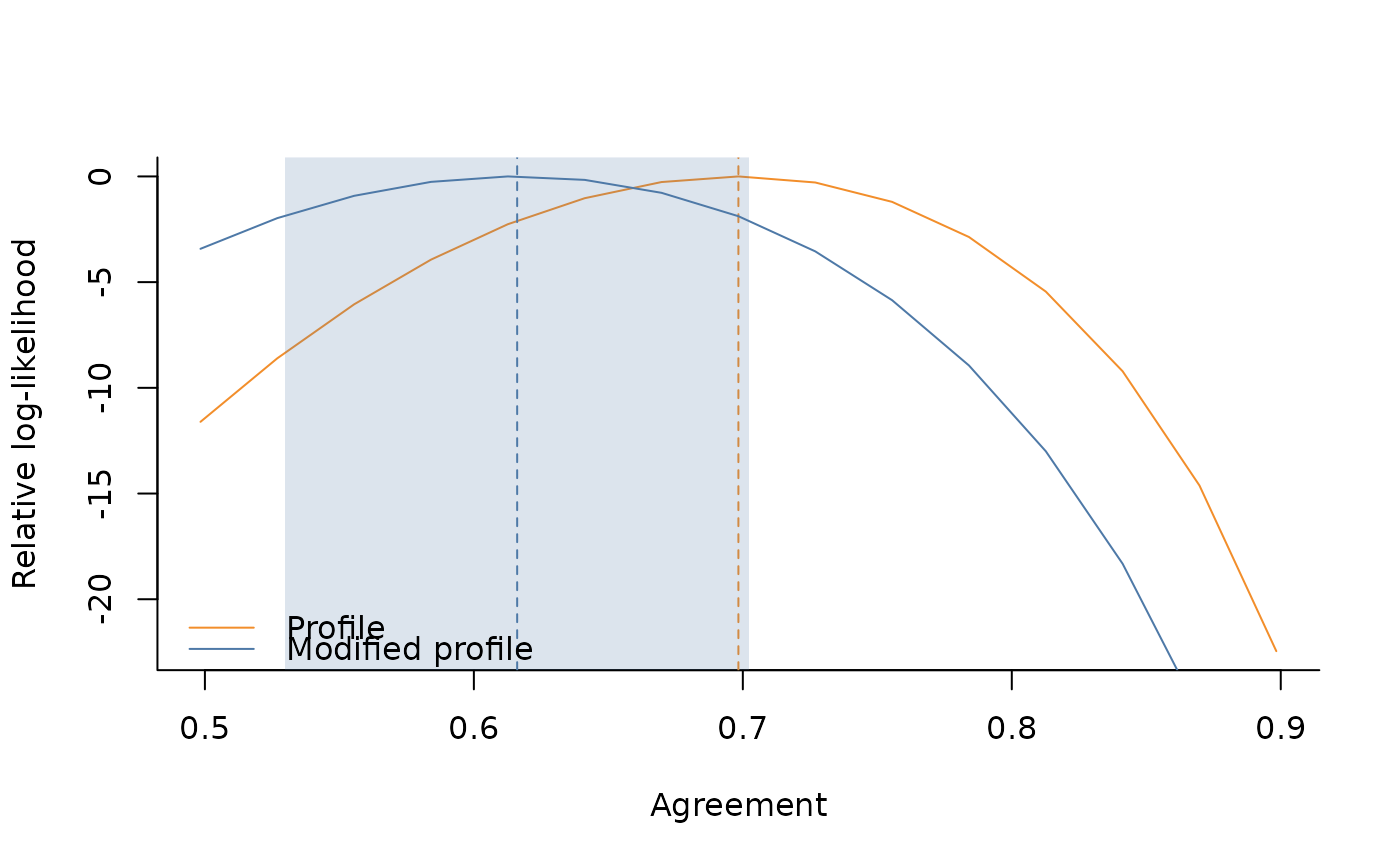
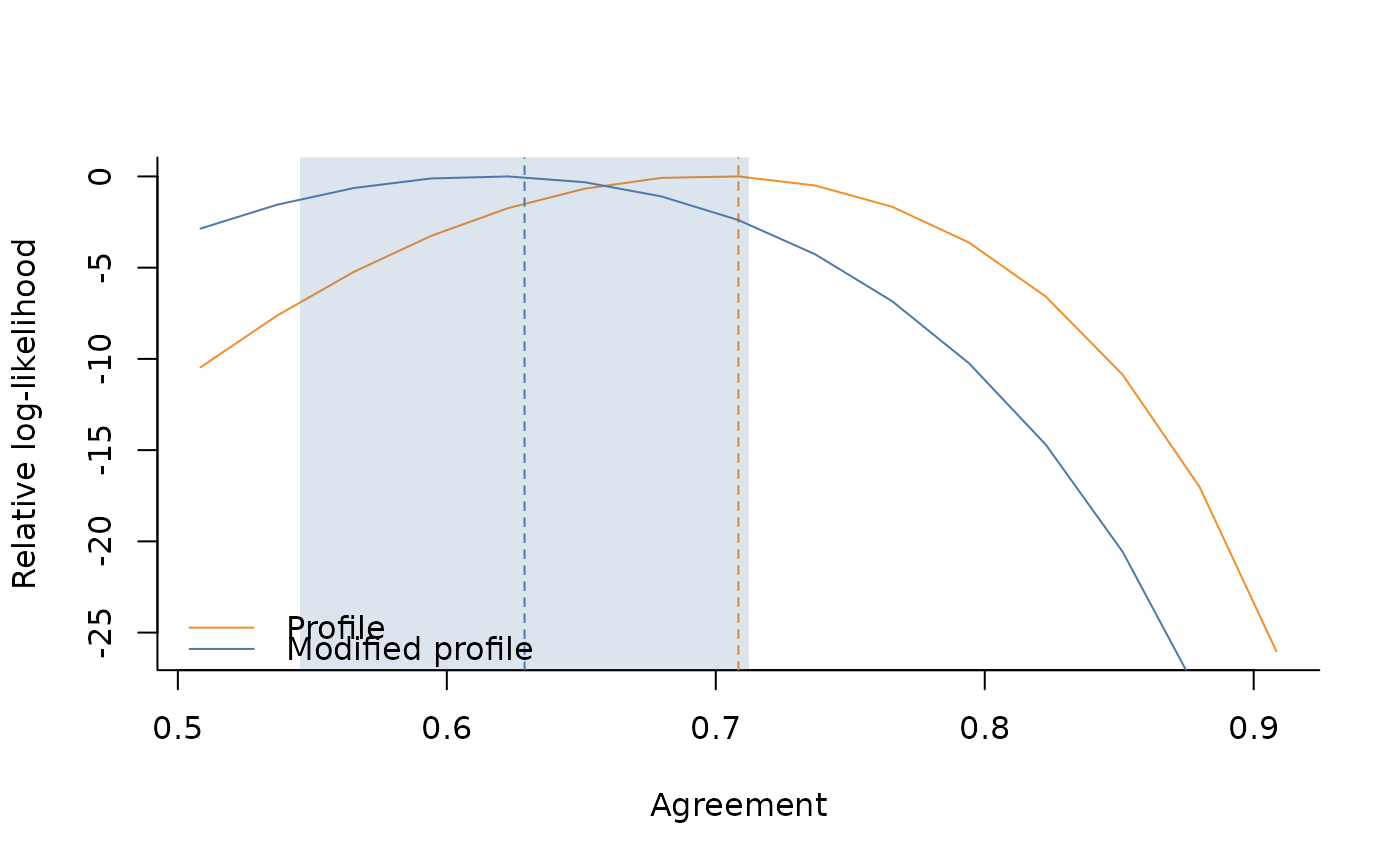
Deploying to gh-pages from @ giuseppealfonzetti/AgreementPhi@ce056dad377078d16d6ac918213725686126458d 🚀

diff --git a/reference/par2agr.html b/reference/par2agr.html
@@ -43,7 +43,15 @@
 
     <div class="section level2">
     <h2 id="ref-usage">Usage<a class="anchor" aria-label="anchor" href="#ref-usage"></a></h2>
-    <div class="sourceCode"><pre class="sourceCode r"><code><span><span class="fu">par2agr</span><span class="op">(</span><span class="va">PHI</span>, ALPHA <span class="op">=</span> <span class="cn">NULL</span>, BETA <span class="op">=</span> <span class="cn">NULL</span>, K0 <span class="op">=</span> <span class="cn">NULL</span>, K1 <span class="op">=</span> <span class="cn">NULL</span><span class="op">)</span></span></code></pre></div>
+    <div class="sourceCode"><pre class="sourceCode r"><code><span><span class="fu">par2agr</span><span class="op">(</span></span>
+<span>  <span class="va">PHI</span>,</span>
+<span>  ALPHA <span class="op">=</span> <span class="cn">NULL</span>,</span>
+<span>  BETA <span class="op">=</span> <span class="cn">NULL</span>,</span>
+<span>  K0 <span class="op">=</span> <span class="cn">NULL</span>,</span>
+<span>  K1 <span class="op">=</span> <span class="cn">NULL</span>,</span>
+<span>  ADJUST <span class="op">=</span> <span class="cn">FALSE</span>,</span>
+<span>  N_DEGENERATE <span class="op">=</span> <span class="fl">0L</span></span>
+<span><span class="op">)</span></span></code></pre></div>
     </div>
 
     <div class="section level2">
@@ -68,6 +76,17 @@
 
 <dt id="arg-k-">K1<a class="anchor" aria-label="anchor" href="#arg-k-"></a></dt>
 <dd><p>one-inflation threshold</p></dd>
+
+
+<dt id="arg-adjust">ADJUST<a class="anchor" aria-label="anchor" href="#arg-adjust"></a></dt>
+<dd><p>logical; if <code>TRUE</code>, degenerate items (dropped from estimation,
+i.e. not in <code>ALPHA</code>) are included in the overall mean with a unit
+contribution. Requires <code>ALPHA</code>.</p></dd>
+
+
+<dt id="arg-n-degenerate">N_DEGENERATE<a class="anchor" aria-label="anchor" href="#arg-n-degenerate"></a></dt>
+<dd><p>number of degenerate items dropped before estimation.
+Used only when <code>ADJUST = TRUE</code>.</p></dd>
 
 </dl></div>
     <div class="section level2">

diff --git a/reference/agreement.html b/reference/agreement.html
@@ -70,7 +70,8 @@ Fitted via the ordered beta mixture model. One-way only (no workers in <code>DAT
 <span>  PHI_START <span class="op">=</span> <span class="cn">NULL</span>,</span>
 <span>  NUISANCE <span class="op">=</span> <span class="fu"><a href="https://rdrr.io/r/base/c.html" class="external-link">c</a></span><span class="op">(</span><span class="st">"items"</span><span class="op">)</span>,</span>
 <span>  CONTROL <span class="op">=</span> <span class="fu"><a href="https://rdrr.io/r/base/list.html" class="external-link">list</a></span><span class="op">(</span><span class="op">)</span>,</span>
-<span>  VERBOSE <span class="op">=</span> <span class="cn">FALSE</span></span>
+<span>  VERBOSE <span class="op">=</span> <span class="cn">FALSE</span>,</span>
+<span>  ADJUST <span class="op">=</span> <span class="cn">TRUE</span></span>
 <span><span class="op">)</span></span></code></pre></div>
     </div>
 
@@ -150,6 +151,14 @@ Must be positive. Default: <code>100</code>.</p></dd>
 
 <dt id="arg-verbose">VERBOSE<a class="anchor" aria-label="anchor" href="#arg-verbose"></a></dt>
 <dd><p>Print optimization progress. Default <code>FALSE</code>.</p></dd>
+
+
+<dt id="arg-adjust">ADJUST<a class="anchor" aria-label="anchor" href="#arg-adjust"></a></dt>
+<dd><p>Logical; if <code>TRUE</code> (default), degenerate items dropped before
+estimation are re-included in the overall agreement by weighting each with a
+unit contribution: <code>(fit_J * raw + n_dropped) / (fit_J + n_dropped)</code>. Applied
+uniformly to all data types. Has no effect when no items are dropped (e.g.
+two-way models, where degenerate items are kept in the fit).</p></dd>
 
 </dl></div>
     <div class="section level2">

diff --git a/index.html b/index.html
@@ -90,11 +90,7 @@
 <span>  RATINGS <span class="op">=</span> <span class="va">dt</span><span class="op">$</span><span class="va">rating</span>, </span>
 <span>  ITEM_INDS <span class="op">=</span> <span class="va">dt</span><span class="op">$</span><span class="va">id_item</span>, </span>
 <span>  WORKER_INDS <span class="op">=</span> <span class="va">dt</span><span class="op">$</span><span class="va">id_worker</span></span>
-<span>  <span class="op">)</span></span>
-<span><span class="co">#&gt;  - Detected 200 items and 200 workers.</span></span>
-<span><span class="co">#&gt;  - Detected continuous data on the (0,1) range.</span></span>
-<span><span class="co">#&gt;  - Average number of observed ratings per item is 8.</span></span>
-<span><span class="co">#&gt;  - Average number of observed ratings per worker is 8.</span></span></code></pre></div>
+<span>  <span class="op">)</span></span></code></pre></div>
 <p>Fit the model using <code><a href="reference/agreement.html">agreement()</a></code></p>
 <div class="sourceCode" id="cb4"><pre class="downlit sourceCode r">
 <code class="sourceCode R"><span><span class="va">fit</span> <span class="op">&lt;-</span> <span class="fu"><a href="reference/agreement.html">agreement</a></span><span class="op">(</span><span class="va">rd</span>, METHOD <span class="op">=</span> <span class="st">"modified"</span>, NUISANCE <span class="op">=</span> <span class="fu"><a href="https://rdrr.io/r/base/c.html" class="external-link">c</a></span><span class="op">(</span><span class="st">"items"</span><span class="op">)</span>, VERBOSE <span class="op">=</span> <span class="cn">TRUE</span><span class="op">)</span></span>
@@ -172,8 +168,8 @@
 <h2 data-toc-skip>Dev status</h2>
 <ul class="list-unstyled">
 <li><a href="https://github.com/giuseppealfonzetti/AgreementPhi/actions/workflows/R-CMD-check.yaml" class="external-link"><img src="https://github.com/giuseppealfonzetti/AgreementPhi/actions/workflows/R-CMD-check.yaml/badge.svg" alt="R-CMD-check"></a></li>
-<li><a href="https://lifecycle.r-lib.org/articles/stages.html#experimental" class="external-link"><img src="https://img.shields.io/badge/lifecycle-experimental-orange.svg" alt="Lifecycle: experimental"></a></li>
 <li><a href="https://app.codecov.io/gh/giuseppealfonzetti/AgreementPhi" class="external-link"><img src="https://codecov.io/gh/giuseppealfonzetti/AgreementPhi/graph/badge.svg" alt="Codecov test coverage"></a></li>
+<li><a href="https://giuseppealfonzetti.github.io/AgreementPhi/"><img src="https://img.shields.io/badge/docs-homepage-blue.svg" alt="Docs"></a></li>
 </ul>
 </div>
 

diff --git a/reference/confint.agreement_fit.html b/reference/confint.agreement_fit.html
@@ -70,8 +70,7 @@
     <div class="section level2">
     <h2 id="value">Value<a class="anchor" aria-label="anchor" href="#value"></a></h2>
     <p>A named list with two elements, each a numeric matrix with columns
-<code>Estimate</code>, <code>Std. Error</code>, and the lower/upper confidence bounds (named by
-tail probability, e.g. <code>"2.5 %"</code> and <code>"97.5 %"</code>):</p><dl><dt><code>parameters</code></dt>
+<code>Estimate</code>, <code>Std. Error</code>, and the lower/upper confidence bounds:</p><dl><dt><code>parameters</code></dt>
 <dd><p>Parameter-scale estimates. One row (<code>phi</code>) for
 non-inflated data; three rows (<code>phi</code>, <code>k0</code>, <code>k1</code>) for inflated data.</p></dd>
 

diff --git a/reference/par2agr.md b/reference/par2agr.md
@@ -5,7 +5,15 @@ From model parameters to agreement
 ## Usage
 
 ``` r
-par2agr(PHI, ALPHA = NULL, BETA = NULL, K0 = NULL, K1 = NULL)
+par2agr(
+  PHI,
+  ALPHA = NULL,
+  BETA = NULL,
+  K0 = NULL,
+  K1 = NULL,
+  ADJUST = FALSE,
+  N_DEGENERATE = 0L
+)
 ```
 
 ## Arguments
@@ -29,6 +37,17 @@ par2agr(PHI, ALPHA = NULL, BETA = NULL, K0 = NULL, K1 = NULL)
 - K1:
 
   one-inflation threshold
+
+- ADJUST:
+
+  logical; if `TRUE`, degenerate items (dropped from estimation, i.e.
+  not in `ALPHA`) are included in the overall mean with a unit
+  contribution. Requires `ALPHA`.
+
+- N_DEGENERATE:
+
+  number of degenerate items dropped before estimation. Used only when
+  `ADJUST = TRUE`.
 
 ## Value
 

diff --git a/reference/agreement.md b/reference/agreement.md
@@ -24,7 +24,8 @@ agreement(
   PHI_START = NULL,
   NUISANCE = c("items"),
   CONTROL = list(),
-  VERBOSE = FALSE
+  VERBOSE = FALSE,
+  ADJUST = TRUE
 )
 ```
 
@@ -119,6 +120,15 @@ agreement(
 - VERBOSE:
 
   Print optimization progress. Default `FALSE`.
+
+- ADJUST:
+
+  Logical; if `TRUE` (default), degenerate items dropped before
+  estimation are re-included in the overall agreement by weighting each
+  with a unit contribution:
+  `(fit_J * raw + n_dropped) / (fit_J + n_dropped)`. Applied uniformly
+  to all data types. Has no effect when no items are dropped (e.g.
+  two-way models, where degenerate items are kept in the fit).
 
 ## Value
 

diff --git a/index.md b/index.md
@@ -48,10 +48,6 @@ rd <- rating_data(
   ITEM_INDS = dt$id_item, 
   WORKER_INDS = dt$id_worker
   )
-#>  - Detected 200 items and 200 workers.
-#>  - Detected continuous data on the (0,1) range.
-#>  - Average number of observed ratings per item is 8.
-#>  - Average number of observed ratings per worker is 8.
 ```
 
 Fit the model using

diff --git a/reference/confint.agreement_fit.md b/reference/confint.agreement_fit.md
@@ -31,8 +31,7 @@ confint(object, parm = NULL, level = 0.95, ...)
 ## Value
 
 A named list with two elements, each a numeric matrix with columns
-`Estimate`, `Std. Error`, and the lower/upper confidence bounds (named
-by tail probability, e.g. `"2.5 %"` and `"97.5 %"`):
+`Estimate`, `Std. Error`, and the lower/upper confidence bounds:
 
 - `parameters`:
 